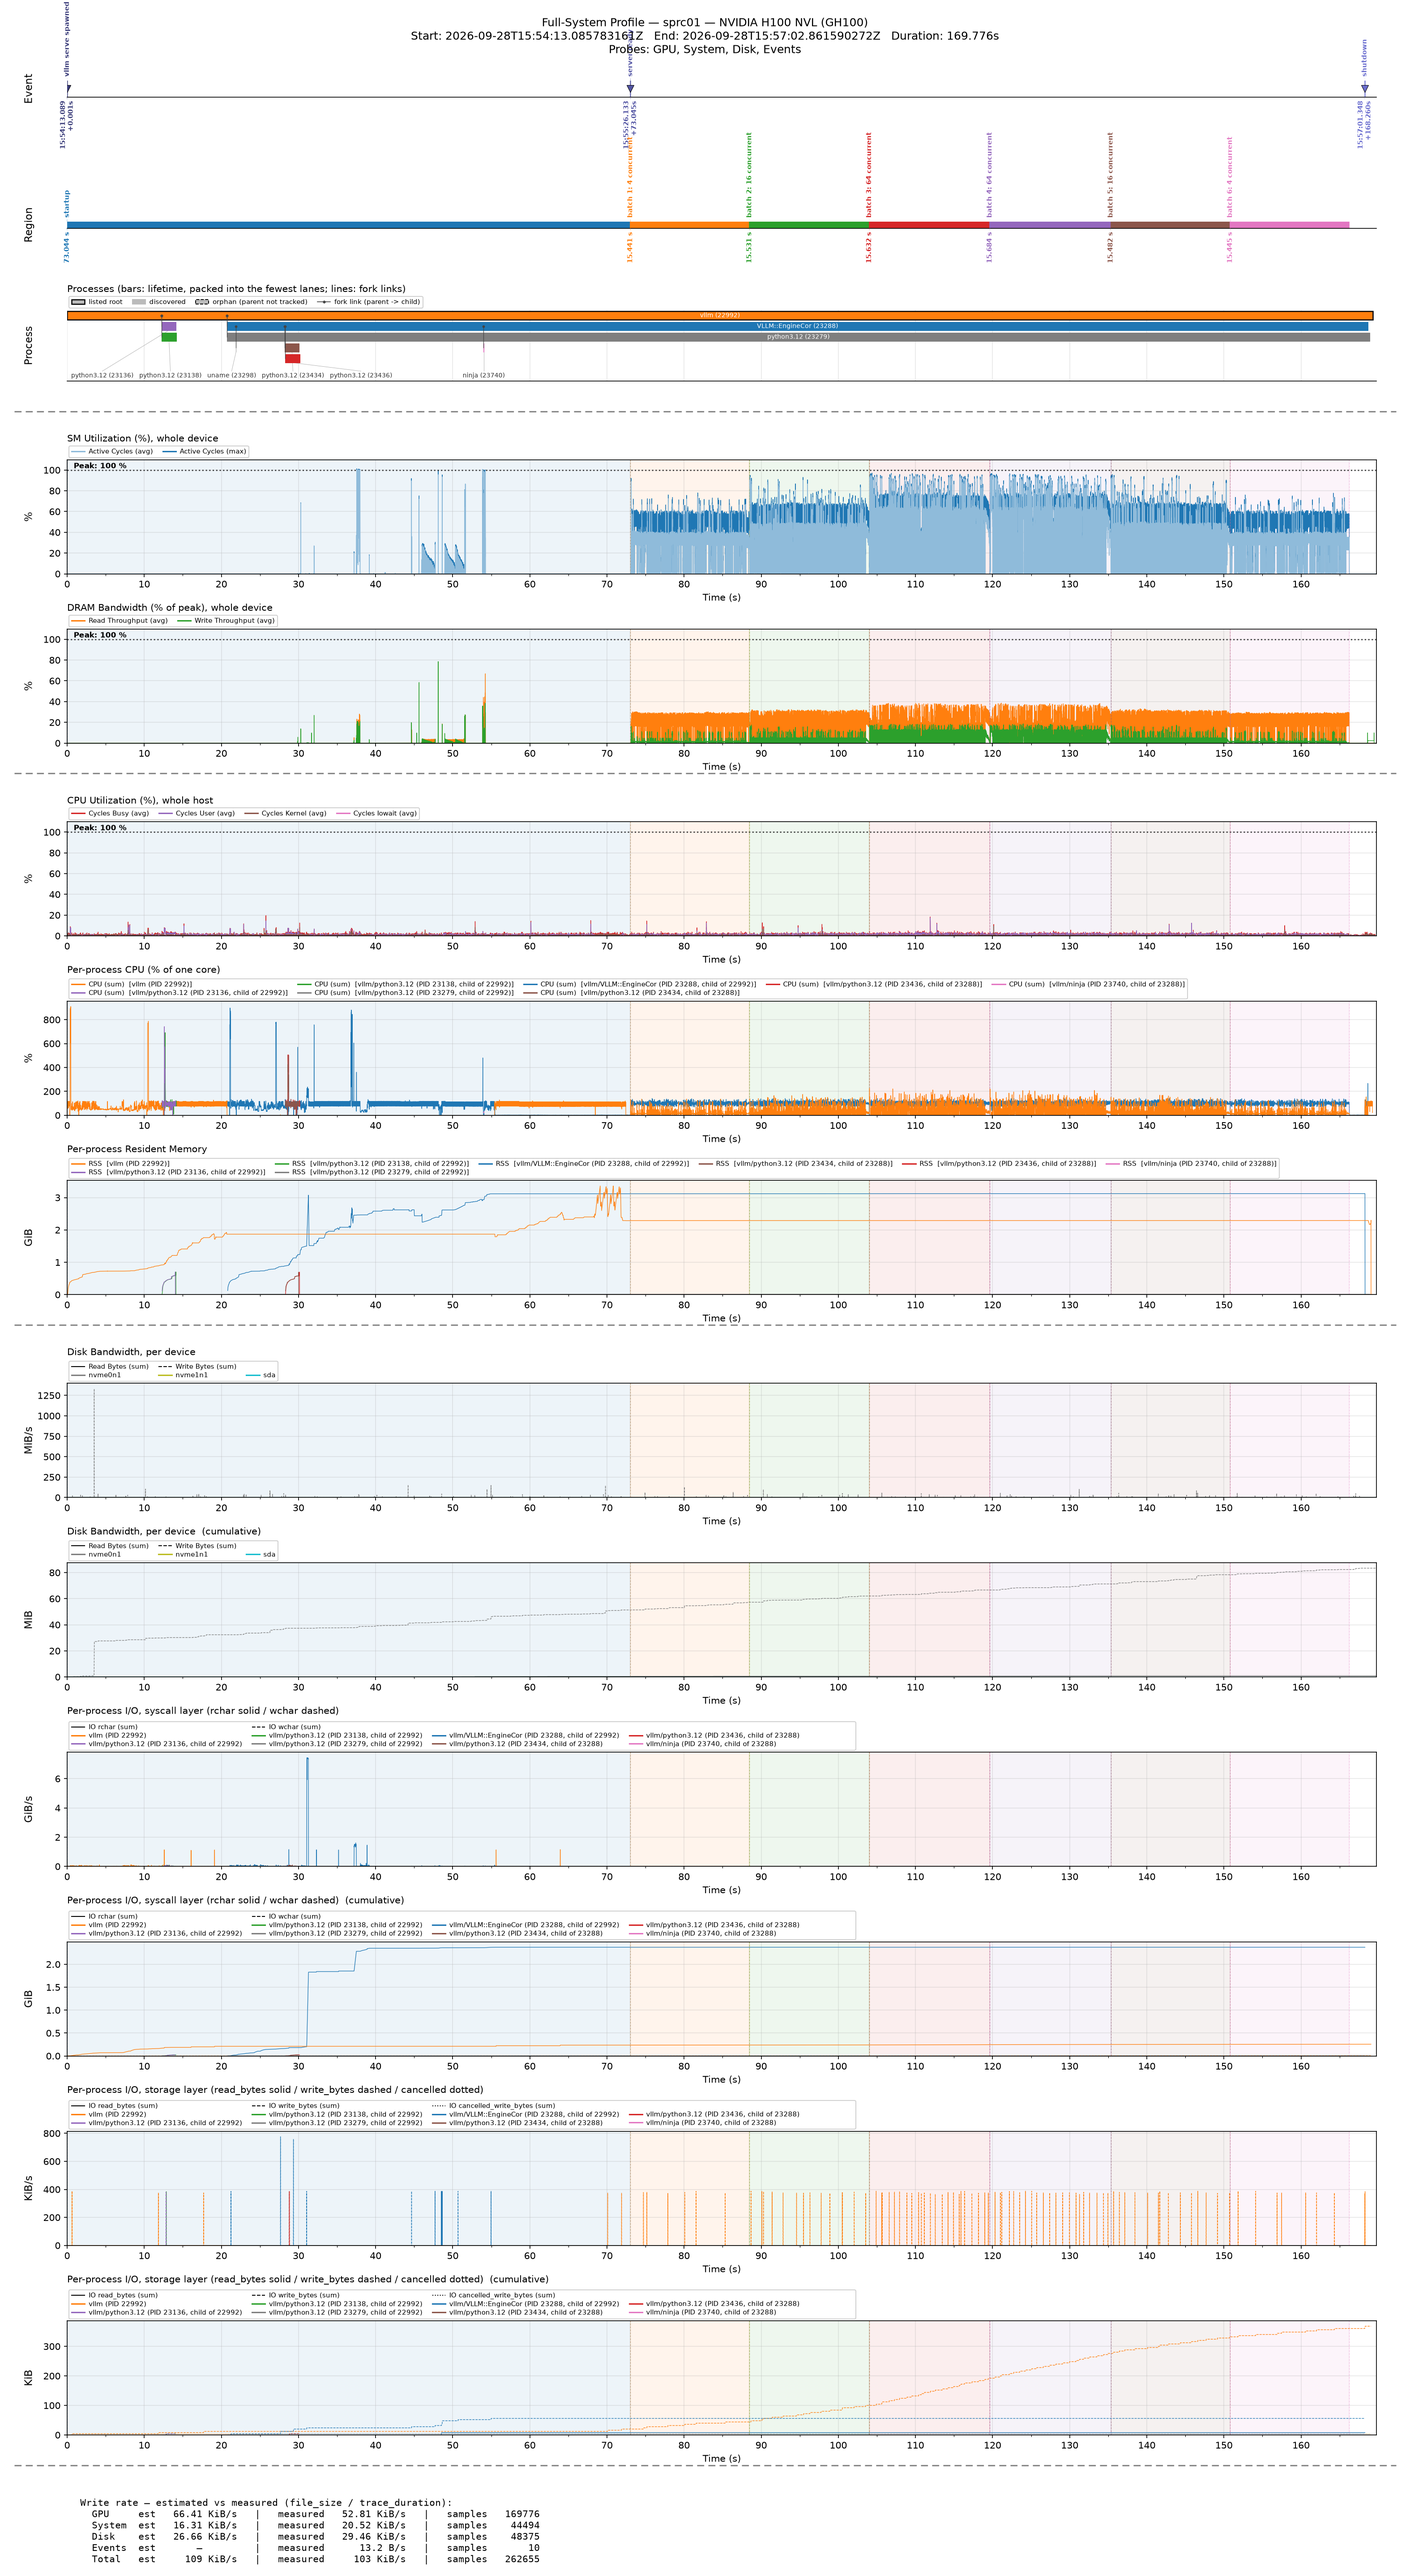
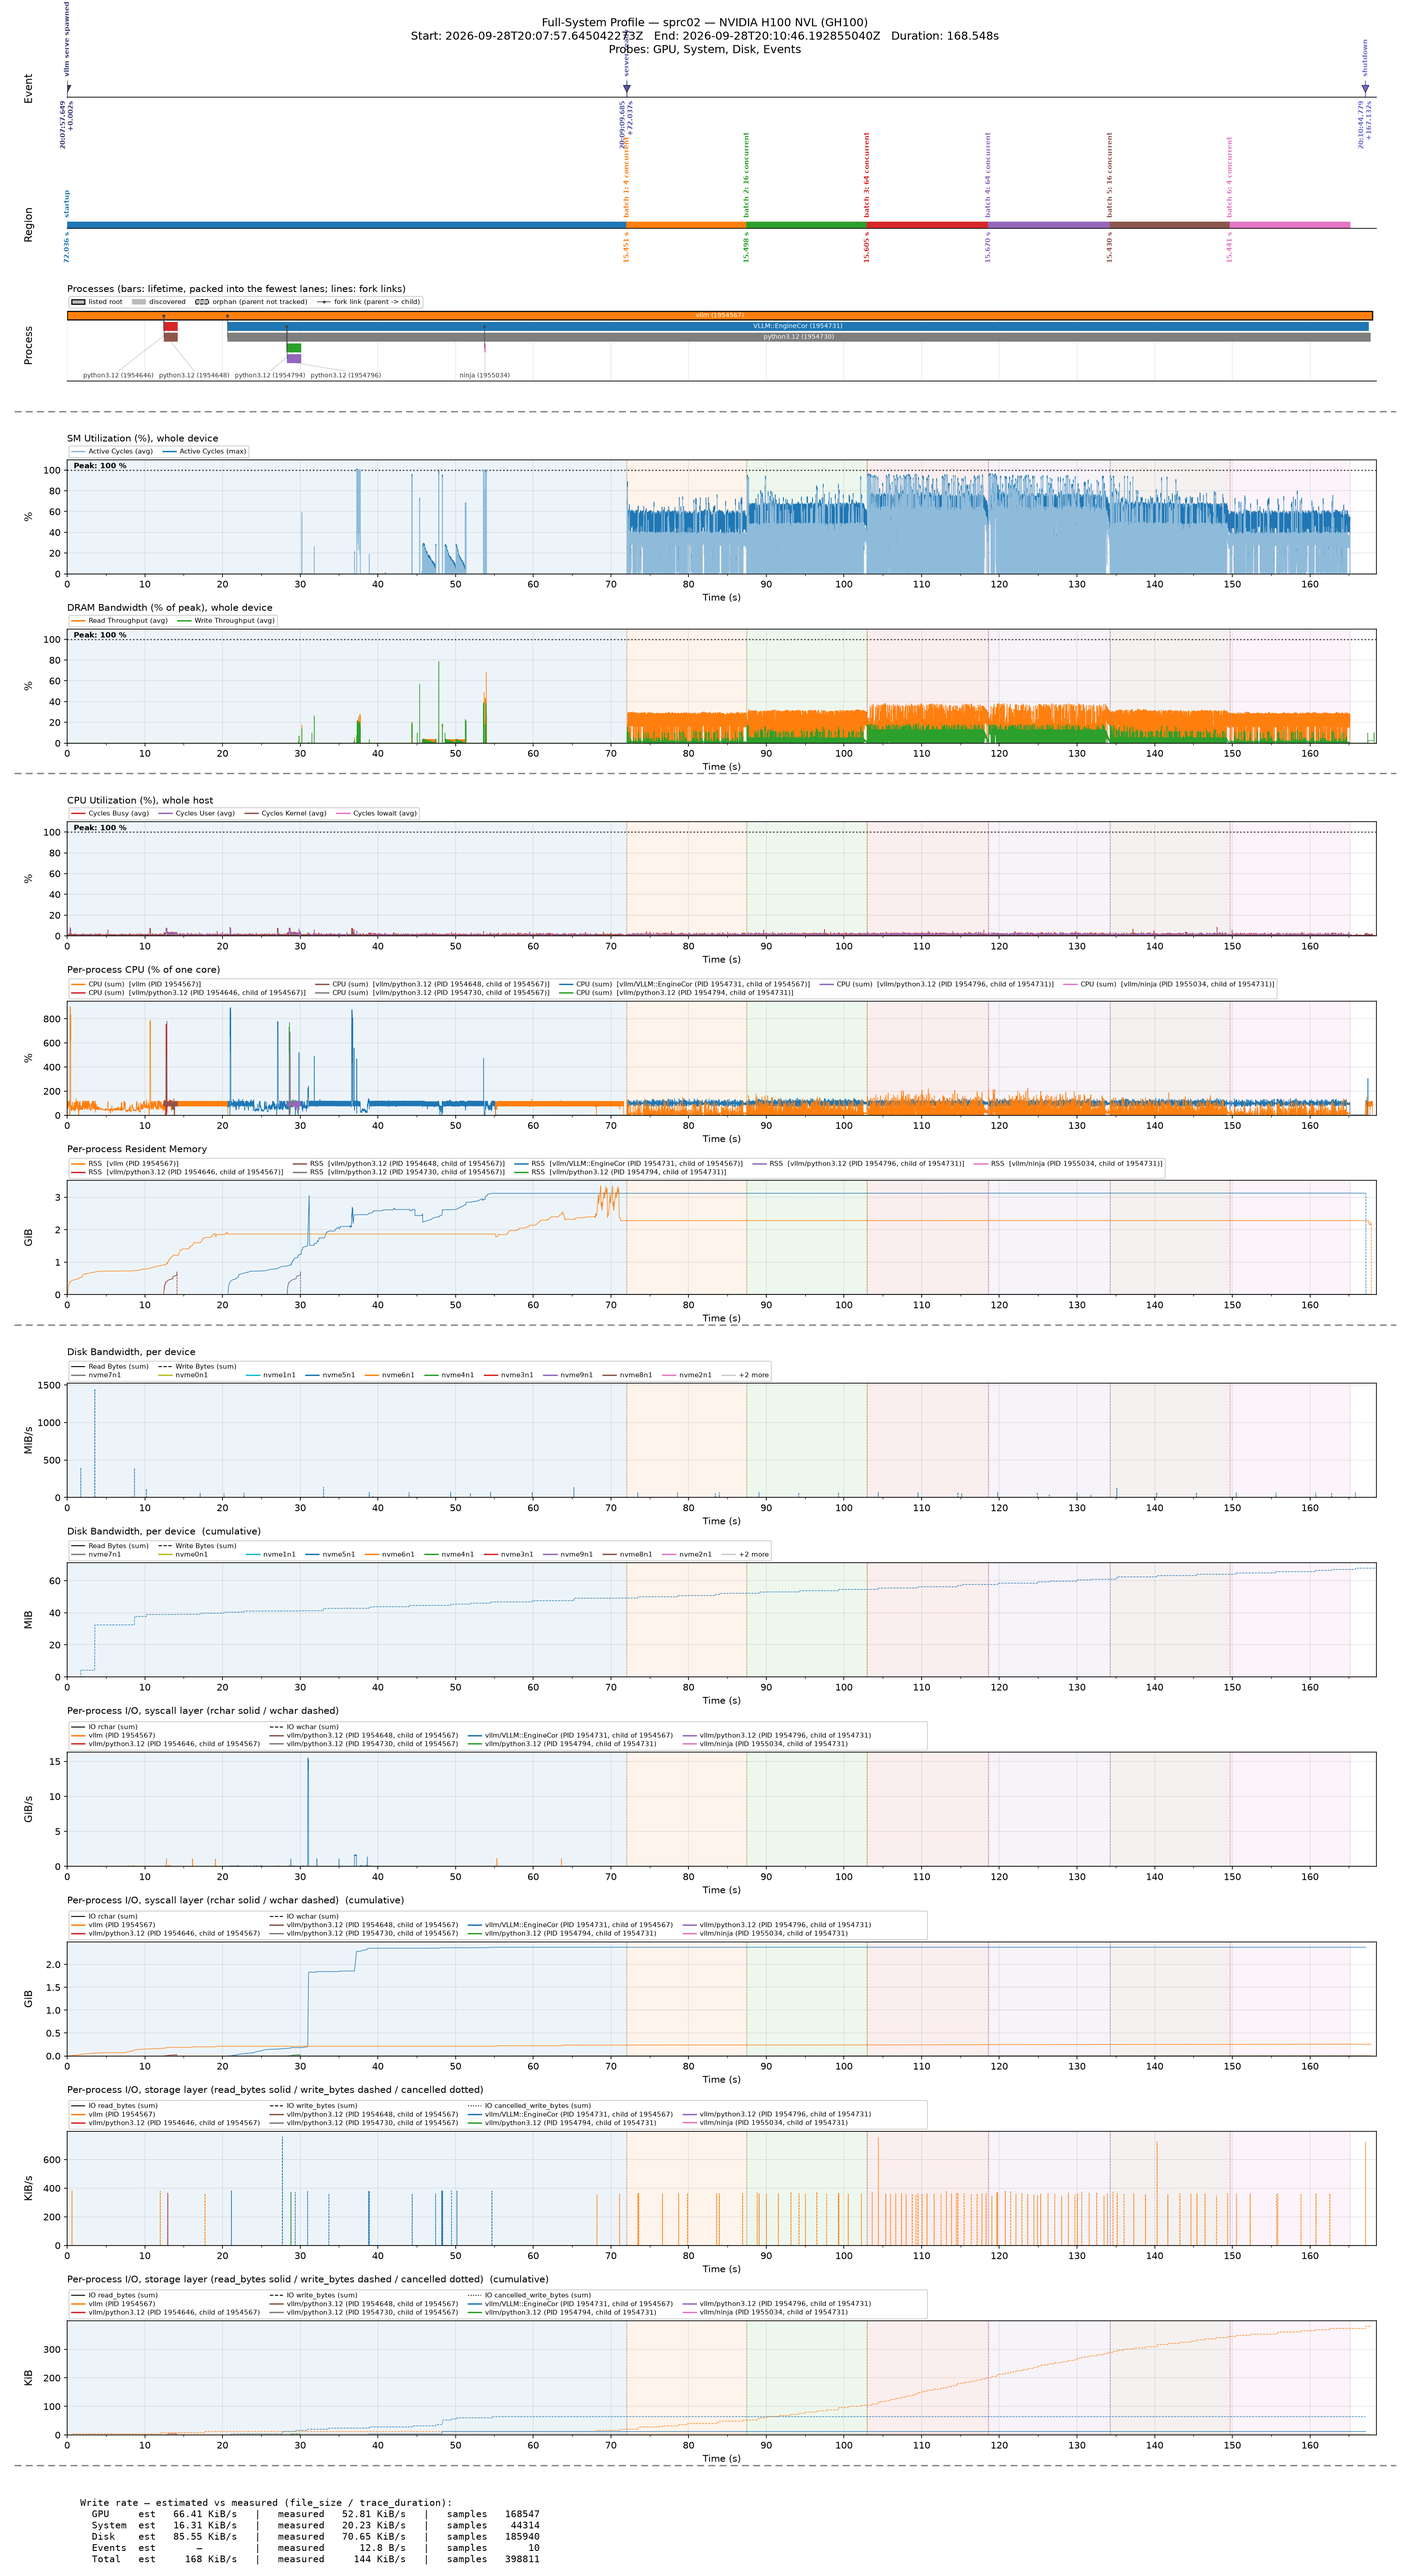
docs: v0.2.0 figures re-taken at 09e8934 (exit end lines, every current feature)
Job 77044 (sprc02, --exclusive, node-local traces), code at 09e8934:
examples/full_system_profiling.py (default layout) and the vLLM example
with --gpu, warm caches (second of two runs). The traces are newer than
the exit-window change, so the per-process memory panel ends each exited
process in a dashed line at its last value instead of a drop to 0; the
figures also show per-device disk panels, name-only cumulative legends
and the rest of this branch's changes. PNGs rendered from a clean export
of 09e8934.

docs/examples/vllm_serving.md: the figure run's numbers from this run
(ready 72 s, 3135 requests, process table, log milestones, SM avg / max
per window, rchar step 1.65 GiB at 28.8-32.1 s, reap adjustment 2.43 GiB
at 167.5 s, W5 7/7, CPU reconcile -33 ms of 199.6 s, scan p50 / p99,
sidecar 13.6%); "Checked on twelve runs" (this run added; every range
already held it). The weight-load window and reap time quoted before were
from an older run.

Claude-Session: https://claude.ai/code/session_01KGtpen56WsVzwjUE2dwvzH

diff --git a/docs/examples/vllm_serving.md b/docs/examples/vllm_serving.md
@@ -112,41 +112,41 @@ defaults otherwise (System and Disk 100 Hz, GPU 1000 Hz, 100 ms scan, every
 probe flushing every 5 s, the launcher a child subreaper),
 `-- --max-model-len 4096 --gpu-memory-utilization 0.80`, warm compile caches,
 launcher not pinned, on an otherwise idle node (the whole-host CPU panel
-stays under 5%). The server was ready 73 s after spawn and served 3149
+stays under 5%). The server was ready 72 s after spawn and served 3135
 requests in the 90 s of load, none failed. What the example printed at the
 end, the trace's process table (times from the start of the trace; CPU =
 head + samples + exit tail):
 
 | pid | parent | kind | comm (history) | start s | end s | CPU s |
 |---|---|---|---|---|---|---|
-| 22992 | 22972 | root | `vllm` | 0.0 | 169.3 | 63.63 |
-| 23136 | 22992 | discovered | `python3.12` | 12.2 | 14.1 | 2.07 |
-| 23138 | 22992 | discovered | `python3.12` | 12.3 | 14.2 | 2.11 |
-| 23288 | 22992 | discovered | `python3.12` → `VLLM::EngineCor` | 20.7 | 168.7 | 129.98 |
-| 23279 | 22992 | discovered | `python3.12` | 20.7 | 168.9 | 0.04 |
-| 23298 | 23288 | discovered | `uname` | 21.9 | 21.9 | 0.00 |
-| 23434 | 23288 | discovered | `python3.12` | 28.2 | 30.1 | 1.94 |
-| 23436 | 23288 | discovered | `python3.12` | 28.3 | 30.2 | 2.05 |
-| 23740 | 23288 | discovered | `ninja` | 54.0 | 54.1 | 0.02 |
+| 1954567 | 1954528 | root | `vllm` | 0.0 | 168.1 | 62.32 |
+| 1954646 | 1954567 | discovered | `python3.12` | 12.4 | 14.2 | 2.03 |
+| 1954648 | 1954567 | discovered | `python3.12` | 12.4 | 14.2 | 2.02 |
+| 1954731 | 1954567 | discovered | `python3.12` → `VLLM::EngineCor` | 20.7 | 167.5 | 129.05 |
+| 1954730 | 1954567 | discovered | `python3.12` | 20.7 | 167.7 | 0.03 |
+| 1954794 | 1954731 | discovered | `python3.12` | 28.3 | 30.1 | 2.11 |
+| 1954796 | 1954731 | discovered | `python3.12` | 28.3 | 30.1 | 2.04 |
+| 1955034 | 1954731 | discovered | `ninja` | 53.7 | 53.8 | 0.02 |
 
-The **root** (22992, `vllm`) is the API server; kind `root` because the
-launcher listed it. **EngineCore** (23288) was found as `python3.12` 20.7 s
+The **root** (1954567, `vllm`) is the API server; kind `root` because the
+launcher listed it. **EngineCore** (1954731) was found as `python3.12` 20.7 s
 in, before it renamed itself, and its alias followed the rename. The
-**multiprocessing helper** (23279) lives for the whole run at ~0 CPU. The
+**multiprocessing helper** (1954730) lives for the whole run at ~0 CPU. The
 rest are **startup transients**: two pairs of short-lived Python workers
-(~2 s of CPU each; one pair under the API server, one under EngineCore),
-a `uname` and a small `ninja` build. The process timeline shows them in five
+(~2 s of CPU each; one pair under the API server, one under EngineCore)
+and a small `ninja` build (EngineCore's `uname`, traced in other runs,
+lived less than a scan here). The process timeline shows them in five
 lanes (the most alive at once), each fork linked to its parent. Processes
 that lived less than one scan interval can be missing: in this run the
 oracle below saw 6 such.
 
 The panels line up with vLLM's own log (times from the start of the trace):
-EngineCore starts at 20.7 s and loads the weights at ~31 s (the step in its
-cumulative `rchar`; vLLM: "Loading weights took 0.33 seconds"); its profiling
-warmup and two CUDA graph captures (finished at ~47 s and ~51 s) are the GPU
-activity during startup and its bursts of several cores; its init finishes at
-~55 s, and the API server, busy at ~100% of a core through most of startup,
-answers `/v1/models` at 73 s. Under load both run near one core each;
+EngineCore starts at 20.7 s and loads the weights at ~29–32 s (the step in
+its cumulative `rchar`; vLLM: "Loading weights took 0.25 seconds"); its
+profiling warmup and two CUDA graph captures (finished at ~49 s and ~52 s)
+are the GPU activity during startup and its bursts of several cores; its
+init finishes at ~56 s, and the API server, busy at ~100% of a core through
+most of startup, answers `/v1/models` at 72 s. Under load both run near one core each;
 resident memory reaches ~3.1 GiB (EngineCore) and ~2.3 GiB (API server).
 
 **Cold compile caches.** With empty caches the same example takes 156 s to
@@ -164,22 +164,22 @@ reads **58% above** the kernel (`CpuTail.ambiguous_cpu_ns` carries the
 excess). In such a run's figure the per-process legends list the ten most
 active processes and a `+k more` entry for the rest, drawn in grey.
 
-### Checked on eleven runs
+### Checked on twelve runs
 
 Six runs at earlier defaults (System and Disk 100 Hz, GPU 1000 Hz with the
 old collection loop; two without `--gpu`, then two pairs alternating), one at
-the 2026-09-25 defaults (System and Disk 50 Hz, GPU 500 Hz), and four at the
-current ones (one before the launcher adopted orphans; two collecting SM
+the 2026-09-25 defaults (System and Disk 50 Hz, GPU 500 Hz), and five at the
+current ones (one before the launcher adopted orphans; three collecting SM
 activity's `.max` too, one of them the run in the figure), each with a
 test-only oracle polling the run's cgroup every 10 ms and the launcher's
 `getrusage(RUSAGE_CHILDREN)`:
 
 | | result |
 |---|---|
-| Completeness: every process the oracle saw alive ≥ 100 ms is in the trace (both probes) | **11/11 runs** (7–8 such processes per run, 0 missed); the 3–9 missed per run were each seen alive ≤ 80.5 ms (the figure's run: 7 such, 6 missed, each seen by one 10 ms poll only) |
-| Per-process CPU of the whole tree (Σ head + samples + tails) vs `getrusage(RUSAGE_CHILDREN)` once vLLM was reaped | trace **13–74 ms below** out of 196–221 s (0.006–0.035%); the figure's run: **46 ms below**, of 201.9 s (0.023%). What the trace cannot hold: the root's CPU after its last sample (a root has no exit tail: its parent, the launcher, is not tracked), and the CPU of the missed sub-100 ms processes |
-| Descendant tracking scan (the trace's `DiscoveryStats`) | p50 0.72–1.51 ms, p99 1.7–2.8 ms, 6–10 processes discovered, all seen exiting (the figure's run: p50 1.3 ms, p99 1.9 ms, 8) |
-| The sidecar's own CPU (exact, from `getrusage` across `stop()`) | At 100 Hz: **8.6–14.6% of one core** over the run, unpinned (8.6% on a quiet node without `--gpu`; 13.2–14.6% while the node was 40–70% busy or the launcher ran the GPU probe beside it). The figure's run, at the 100 Hz default with `--gpu` on a quiet node: **10.8%** (12.3% under load). What each rate costs, measured: [Sampling frequency guidance](../system-guide.md#sampling-frequency-guidance). Pin it with `sidecar_cpus` to keep it off the server's cores |
+| Completeness: every process the oracle saw alive ≥ 100 ms is in the trace (both probes) | **12/12 runs** (7–8 such processes per run, 0 missed); the 3–9 missed per run were each seen alive ≤ 80.5 ms (the figure's run: 7 such, 6 missed, each seen by one 10 ms poll only) |
+| Per-process CPU of the whole tree (Σ head + samples + tails) vs `getrusage(RUSAGE_CHILDREN)` once vLLM was reaped | trace **13–74 ms below** out of 196–221 s (0.006–0.035%); the figure's run: **33 ms below**, of 199.6 s (0.016%). What the trace cannot hold: the root's CPU after its last sample (a root has no exit tail: its parent, the launcher, is not tracked), and the CPU of the missed sub-100 ms processes |
+| Descendant tracking scan (the trace's `DiscoveryStats`) | p50 0.72–1.51 ms, p99 1.7–2.8 ms, 6–10 processes discovered, all seen exiting (the figure's run: p50 1.4 ms, p99 1.8 ms, 7) |
+| The sidecar's own CPU (exact, from `getrusage` across `stop()`) | At 100 Hz: **8.6–14.6% of one core** over the run, unpinned (8.6% on a quiet node without `--gpu`; 13.2–14.6% while the node was 40–70% busy or the launcher ran the GPU probe beside it). The figure's run, at the 100 Hz default with `--gpu` on a quiet node: **13.6%** (15.9% under load). What each rate costs, measured: [Sampling frequency guidance](../system-guide.md#sampling-frequency-guidance). Pin it with `sidecar_cpus` to keep it off the server's cores |
 
 ## GPU: device-wide counters from the launcher
 
@@ -194,7 +194,7 @@ means):
 | window | SM active (% of peak), mean over the SMs (`.avg`) | busiest SM (`.max`) |
 |---|---|---|
 | startup (spawn → ready) | 1.1 | 1.2 |
-| load, concurrency 4 / 16 / 64 / 64 / 16 / 4 | 27.9 / 28.8 / 39.7 / 39.6 / 29.7 / 27.8 | 40.9 / 38.1 / 45.7 / 45.4 / 39.2 / 41.1 |
+| load, concurrency 4 / 16 / 64 / 64 / 16 / 4 | 28.1 / 28.0 / 40.9 / 38.2 / 29.5 / 28.0 | 41.3 / 37.2 / 47.1 / 43.9 / 39.0 / 41.3 |
 | idle, after the load | 0.0 | 0.0 |
 
 SM activity follows vLLM's load, so **from a launcher the GPU panels are
@@ -220,8 +220,8 @@ one CPU thread in the launcher.
 - **Weight loading shows in the syscall layer, not the storage layer.**
   vLLM 0.29's default safetensors loader reads the checkpoint with `read()`:
   EngineCore's `rchar` grows by the checkpoint's size (1.63 GiB for
-  `Qwen/Qwen3.5-0.8B`; 1.66 GiB in the figure's 36–41 s window) in about
-  0.5 s (vLLM logs "Loading weights took 0.52 seconds"), while `read_bytes`
+  `Qwen/Qwen3.5-0.8B`; 1.65 GiB in the figure's 28.8–32.1 s; vLLM logs
+  "Loading weights took 0.25 seconds"), while `read_bytes`
   stays at 0
   because the file is already in the page cache. **A loader that `mmap`s
   from a warm cache would be invisible to every per-process counter**; see
@@ -237,7 +237,7 @@ one CPU thread in the launcher.
   over the tree correctly; see
   [reaped children's I/O](../system-guide.md#reaped-childrens-io).
   In the figure's run, EngineCore's 2.43 GiB is subtracted from the API
-  server at 183.1 s, so neither syscall-layer panel shows a jump at
+  server at 167.5 s, so neither syscall-layer panel shows a jump at
   shutdown. A tracked process that reaps a child and then exits and is
   reaped itself within one sampling interval is handled too (the chain is
   subtracted at the first live tracked ancestor).
